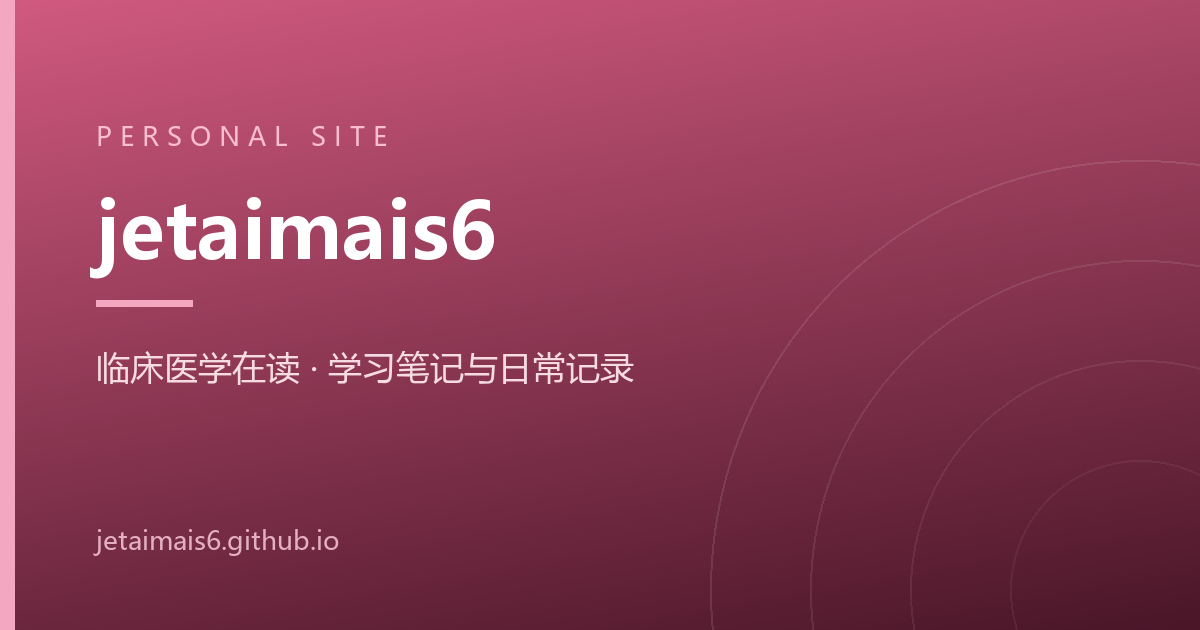
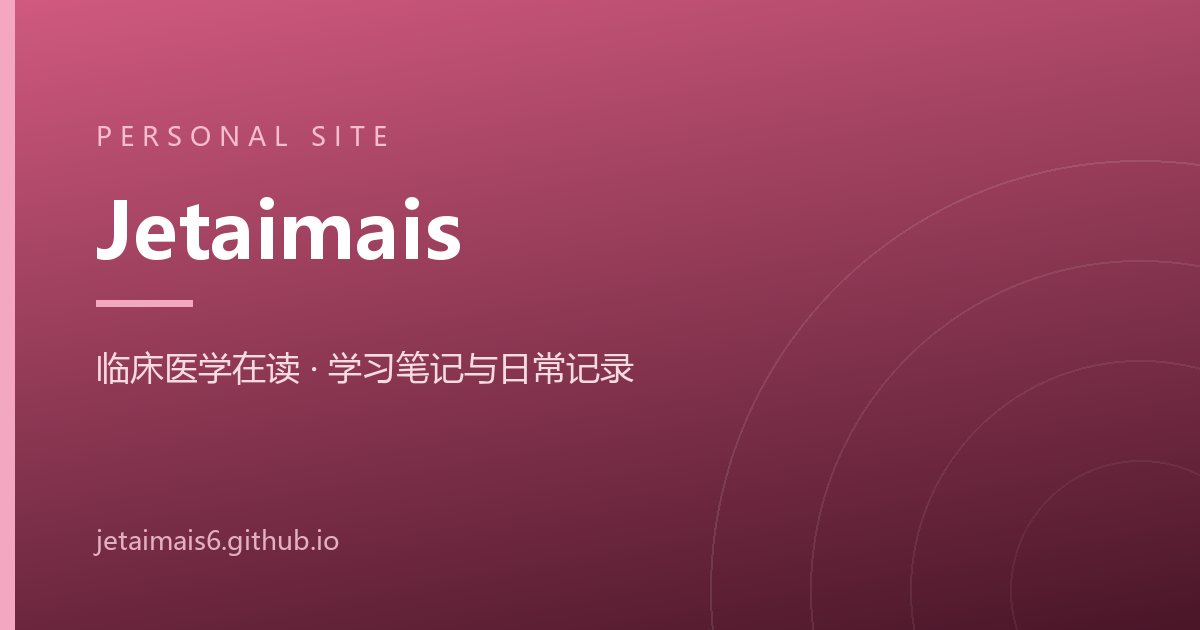
显示名称改为 Jetaimais（账号 ID 与域名保持 jetaimais6）

Changed region(s): [[0.0617, 0.3016, 0.4317, 0.4524]]

diff --git a/index.html b/index.html
@@ -17,9 +17,9 @@
 </script>
 
 <!-- ============ SEO ============ -->
-<title>jetaimais6 · 个人主页</title>
-<meta name="description" content="jetaimais6 —— 临床医学在读。学习笔记、日常记录与零散想法。">
-<meta name="author" content="jetaimais6">
+<title>Jetaimais · 个人主页</title>
+<meta name="description" content="Jetaimais —— 临床医学在读。学习笔记、日常记录与零散想法。">
+<meta name="author" content="Jetaimais">
 <link rel="canonical" href="https://jetaimais6.github.io/">
 <meta name="theme-color" content="#fffdfd" media="(prefers-color-scheme: light)">
 <meta name="theme-color" content="#1a1417" media="(prefers-color-scheme: dark)">
@@ -27,19 +27,19 @@
 
 <!-- ============ 社交分享卡片 ============ -->
 <meta property="og:type" content="website">
-<meta property="og:site_name" content="jetaimais6">
-<meta property="og:title" content="jetaimais6 · 个人主页">
+<meta property="og:site_name" content="Jetaimais">
+<meta property="og:title" content="Jetaimais · 个人主页">
 <meta property="og:description" content="临床医学在读。学习笔记、日常记录与零散想法。">
 <meta property="og:url" content="https://jetaimais6.github.io/">
 <meta property="og:image" content="https://jetaimais6.github.io/assets/og-image.png">
 <meta property="og:image:width" content="1200">
 <meta property="og:image:height" content="630">
-<meta property="og:image:alt" content="jetaimais6 的个人主页">
+<meta property="og:image:alt" content="Jetaimais 的个人主页">
 <meta property="og:locale" content="zh_CN">
 
 <!-- Twitter 用 summary_large_image 才会显示大图 -->
 <meta name="twitter:card" content="summary_large_image">
-<meta name="twitter:title" content="jetaimais6 · 个人主页">
+<meta name="twitter:title" content="Jetaimais · 个人主页">
 <meta name="twitter:description" content="临床医学在读。学习笔记、日常记录与零散想法。">
 <meta name="twitter:image" content="https://jetaimais6.github.io/assets/og-image.png">
 
@@ -63,14 +63,15 @@
 {
   "@context": "https://schema.org",
   "@type": "WebSite",
-  "name": "jetaimais6",
-  "alternateName": "jetaimais6 的个人主页",
+  "name": "Jetaimais",
+  "alternateName": "Jetaimais 的个人主页",
   "description": "临床医学在读。学习笔记、日常记录与零散想法。",
   "url": "https://jetaimais6.github.io/",
   "inLanguage": "zh-CN",
   "author": {
     "@type": "Person",
-    "name": "jetaimais6",
+    "name": "Jetaimais",
+    "alternateName": "jetaimais6",
     "jobTitle": "临床医学在读本科生",
     "description": "大二全日制本科在读，攻读临床医学。",
     "url": "https://jetaimais6.github.io/",
@@ -96,7 +97,7 @@
 
 <header class="site-header">
   <div class="wrap header-inner">
-    <a class="brand" href="/">jetaimais6</a>
+    <a class="brand" href="/">Jetaimais</a>
 
     <nav class="site-nav" aria-label="主导航">
       <a href="#about">关于</a>
@@ -127,9 +128,9 @@
     <section class="hero">
       <p class="eyebrow">个人主页</p>
 
-      <img class="avatar" src="assets/avatar.jpg" alt="jetaimais6 的头像" width="112" height="112">
+      <img class="avatar" src="assets/avatar.jpg" alt="Jetaimais 的头像" width="112" height="112">
 
-      <h1>jetaimais6</h1>
+      <h1>Jetaimais</h1>
 
       <p class="lead">
         临床医学在读。这里放我的学习笔记、日常记录，和一些零散想法。
@@ -155,7 +156,7 @@
     <section id="about" class="section">
       <h2>关于</h2>
       <p>
-        我是 <strong>jetaimais6</strong>，大二全日制本科在读，攻读<strong>临床医学</strong>。
+        我是 <strong>Jetaimais</strong>，大二全日制本科在读，攻读<strong>临床医学</strong>。
         若是有缘之人，必能相见。
       </p>
       <p>

diff --git a/posts/sjogren-syndrome.html b/posts/sjogren-syndrome.html
@@ -16,16 +16,16 @@
   })();
 </script>
 
-<title>干燥综合征 · jetaimais6</title>
+<title>干燥综合征 · Jetaimais</title>
 <meta name="description" content="干燥综合征的典型表现：口干、吞咽干食困难，抗 SSA 与抗 SSB 抗体阳性。">
-<meta name="author" content="jetaimais6">
+<meta name="author" content="Jetaimais">
 <link rel="canonical" href="https://jetaimais6.github.io/posts/sjogren-syndrome.html">
 <meta name="theme-color" content="#fffdfd" media="(prefers-color-scheme: light)">
 <meta name="theme-color" content="#1a1417" media="(prefers-color-scheme: dark)">
 <meta name="robots" content="index, follow">
 
 <meta property="og:type" content="article">
-<meta property="og:site_name" content="jetaimais6">
+<meta property="og:site_name" content="Jetaimais">
 <meta property="og:title" content="干燥综合征">
 <meta property="og:description" content="口干、吞咽干食困难，SSA 与 SSB 阳性。">
 <meta property="og:url" content="https://jetaimais6.github.io/posts/sjogren-syndrome.html">
@@ -58,7 +58,7 @@
   "mainEntityOfPage": "https://jetaimais6.github.io/posts/sjogren-syndrome.html",
   "author": {
     "@type": "Person",
-    "name": "jetaimais6",
+    "name": "Jetaimais",
     "url": "https://jetaimais6.github.io/"
   }
 }
@@ -70,7 +70,7 @@
 
 <header class="site-header">
   <div class="wrap header-inner">
-    <a class="brand" href="../">jetaimais6</a>
+    <a class="brand" href="../">Jetaimais</a>
 
     <nav class="site-nav" aria-label="主导航">
       <a href="../#about">关于</a>

diff --git a/posts/raynaud-phenomenon.html b/posts/raynaud-phenomenon.html
@@ -16,16 +16,16 @@
   })();
 </script>
 
-<title>雷诺现象 · jetaimais6</title>
+<title>雷诺现象 · Jetaimais</title>
 <meta name="description" content="雷诺现象的典型表现：遇冷后手指痉挛、变白甚至发紫。">
-<meta name="author" content="jetaimais6">
+<meta name="author" content="Jetaimais">
 <link rel="canonical" href="https://jetaimais6.github.io/posts/raynaud-phenomenon.html">
 <meta name="theme-color" content="#fffdfd" media="(prefers-color-scheme: light)">
 <meta name="theme-color" content="#1a1417" media="(prefers-color-scheme: dark)">
 <meta name="robots" content="index, follow">
 
 <meta property="og:type" content="article">
-<meta property="og:site_name" content="jetaimais6">
+<meta property="og:site_name" content="Jetaimais">
 <meta property="og:title" content="雷诺现象">
 <meta property="og:description" content="遇冷手指痉挛变白甚至发紫。">
 <meta property="og:url" content="https://jetaimais6.github.io/posts/raynaud-phenomenon.html">
@@ -58,7 +58,7 @@
   "mainEntityOfPage": "https://jetaimais6.github.io/posts/raynaud-phenomenon.html",
   "author": {
     "@type": "Person",
-    "name": "jetaimais6",
+    "name": "Jetaimais",
     "url": "https://jetaimais6.github.io/"
   }
 }
@@ -70,7 +70,7 @@
 
 <header class="site-header">
   <div class="wrap header-inner">
-    <a class="brand" href="../">jetaimais6</a>
+    <a class="brand" href="../">Jetaimais</a>
 
     <nav class="site-nav" aria-label="主导航">
       <a href="../#about">关于</a>
